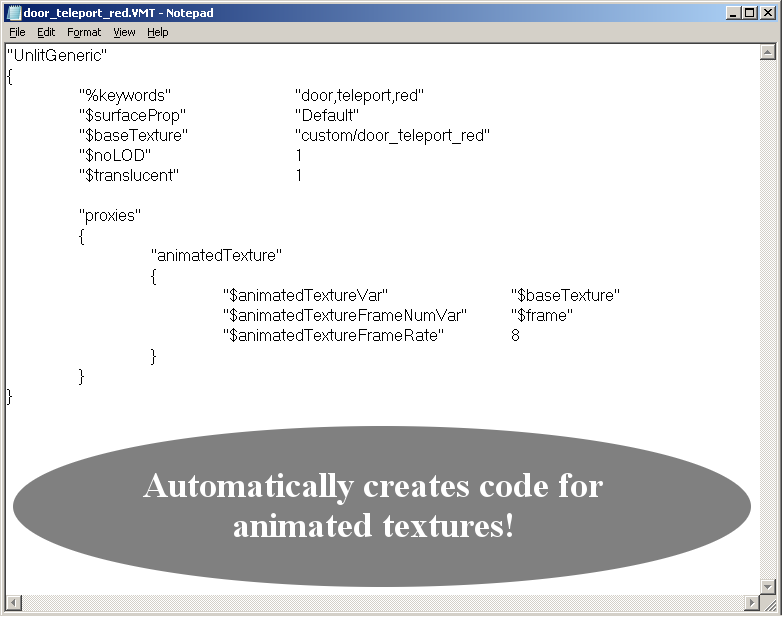
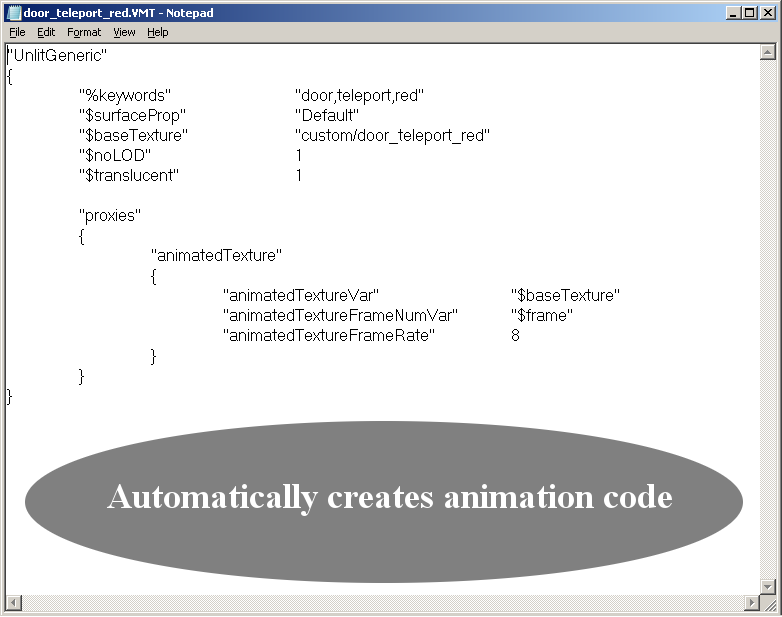
Problems with GIT caused unexpected bugs, these problems were fixed.

diff --git a/src/main/java/com/xyphos/vmtgen/GUI.java b/src/main/java/com/xyphos/vmtgen/GUI.java
@@ -1345,9 +1345,9 @@ public class GUI extends javax.swing.JFrame implements KeyEventDispatcher {
         out.print( "\t{\r\n" );
         out.print( "\t\t\"animatedTexture\"\r\n" );
         out.print( "\t\t{\r\n" );
-        out.print( "\t\t\t\"$animatedTextureVar\"\t\t\"$baseTexture\"\r\n" );
-        out.print( "\t\t\t\"$animatedTextureFrameNumVar\"\t\"$frame\"\r\n" );
-        out.printf( "\t\t\t\"$animatedTextureFrameRate\"\t%s\r\n", file );
+        out.print( "\t\t\t\"animatedTextureVar\"\t\t\"$baseTexture\"\r\n" );
+        out.print( "\t\t\t\"animatedTextureFrameNumVar\"\t\"$frame\"\r\n" );
+        out.printf( "\t\t\t\"animatedTextureFrameRate\"\t\t%s\r\n", file );
         out.print( "\t\t}\r\n" );
         out.print( "\t}\r\n" );
       }

diff --git a/README.md b/README.md
@@ -8,7 +8,7 @@ custom textures with the least number of clicks and user inputs possible, while
 allowing settings to be locked and persist between multiple textures.
 (as opposed to having to re-input each texture's settings via VTFEdit.)
 
-### [Download](https://github.com/Xyphos/VMTGen/releases/tag/1.1-BETA-rc2) Version 1.1-BETA-rc2 (stand-alone executable)
+### [Download](https://github.com/Xyphos/VMTGen/releases/tag/1.1-BETA-rc3) Version 1.1-BETA-rc3 (stand-alone executable)
 ####(requires [Java 7](http://www.oracle.com/technetwork/java/javase/downloads/index.html) to run)
 
 # SCREENSHOTS
@@ -28,9 +28,9 @@ allowing settings to be locked and persist between multiple textures.
 ### Supports Animated Textures
 ![Supports Animation](https://raw.github.com/Xyphos/VMTGen/master/doc/material.png)
 
+======
 
-
-# IMPORTANT FORKING INFORMATION
+## IMPORTANT FORKING INFORMATION
 This Netbeans project uses [Maven](http://maven.apache.org/) for dependency management.
 While I tried to keep the dependencies lowered to a minimum, here is what you need:
 
